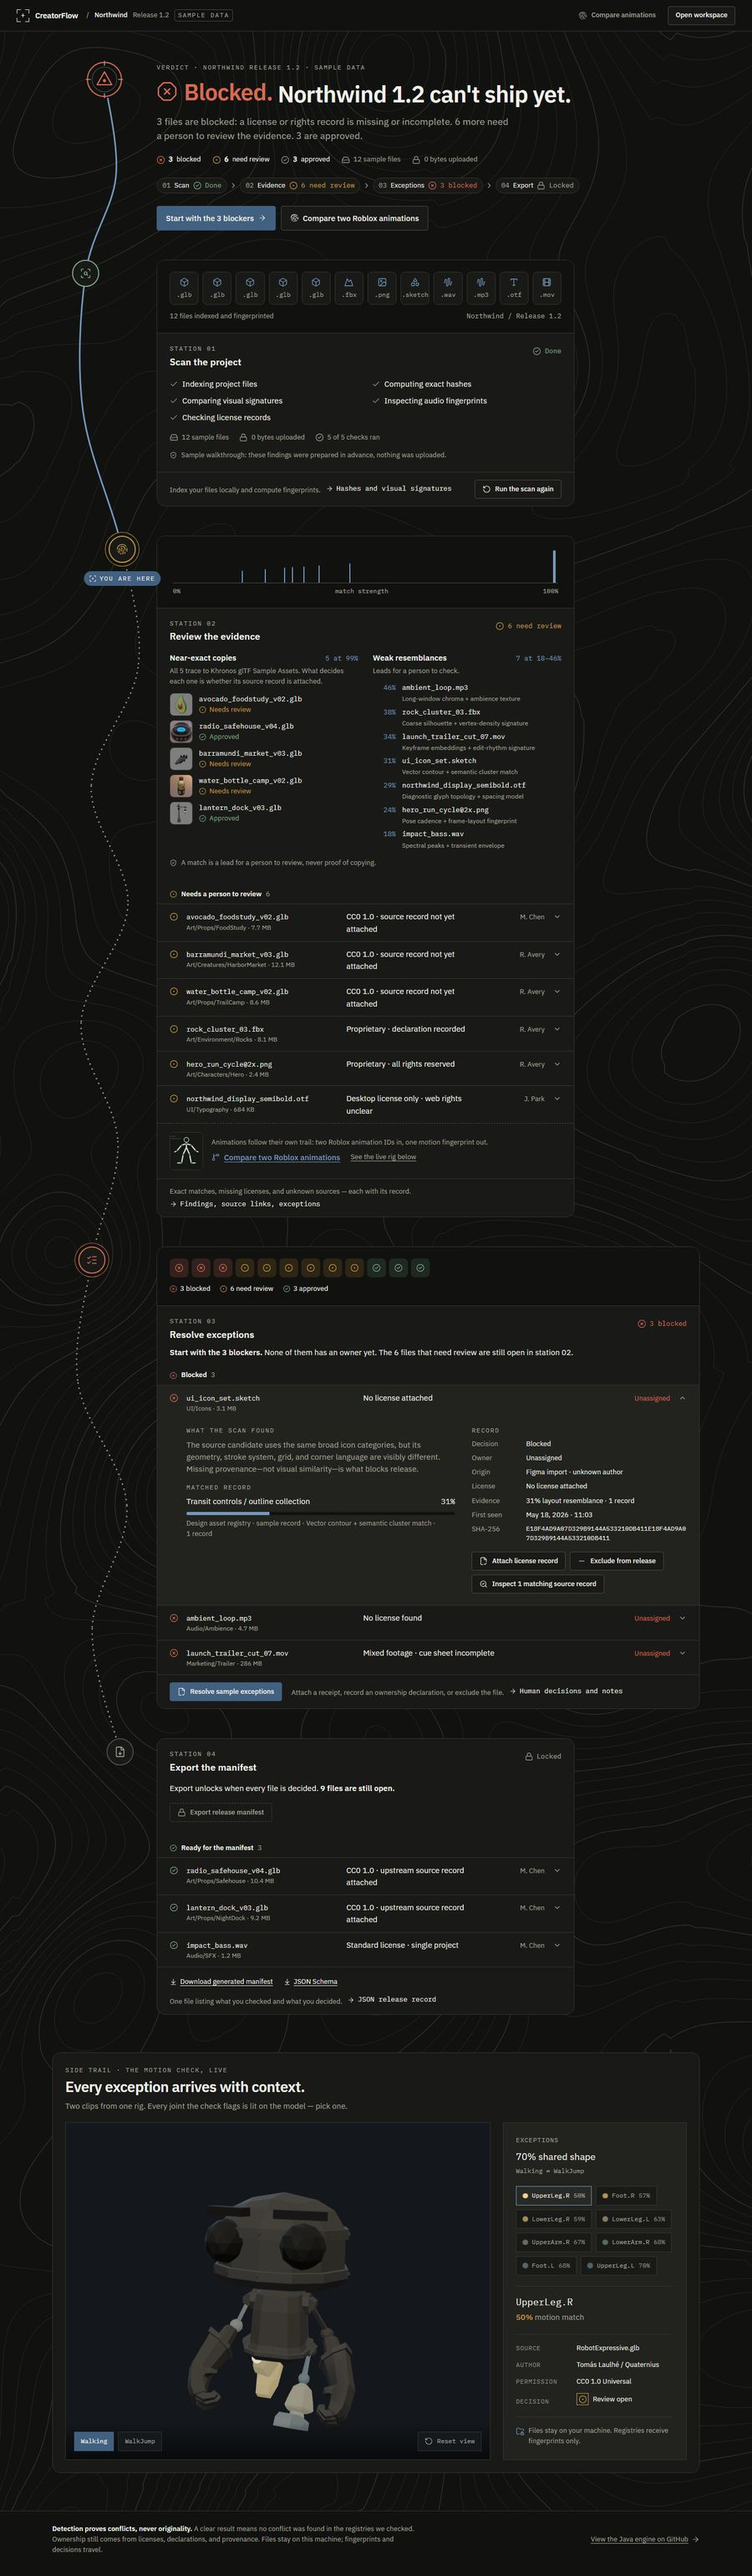
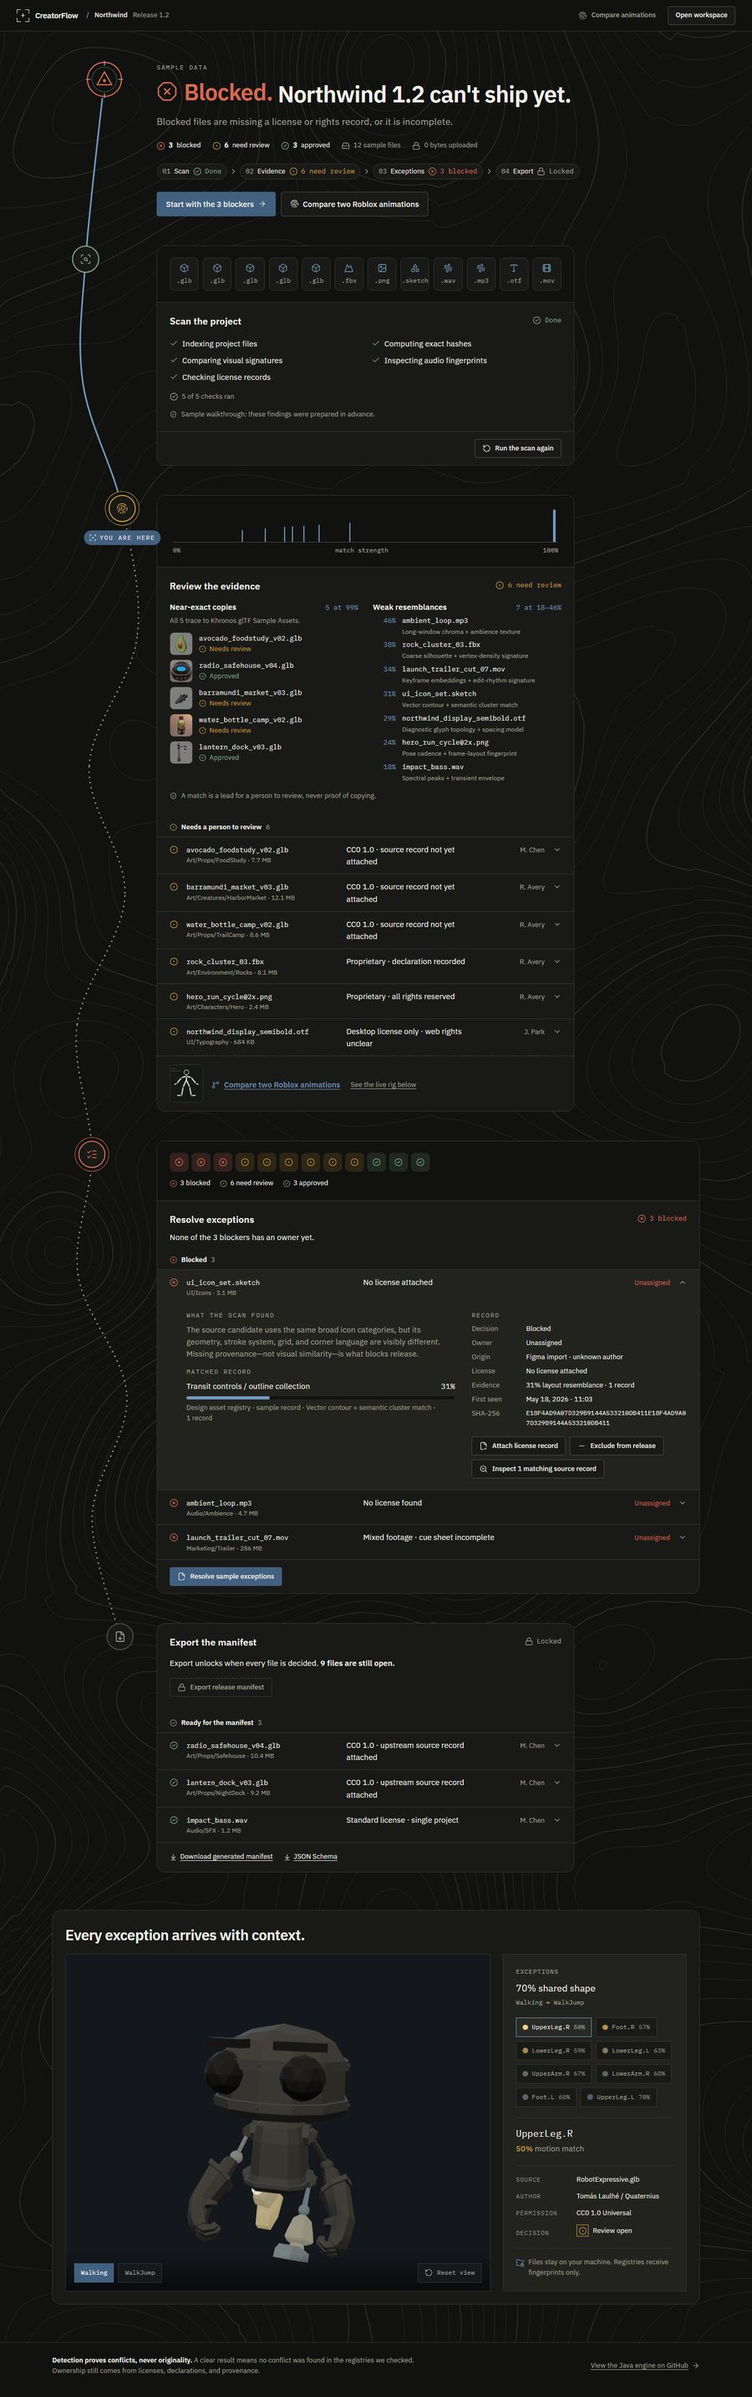
Trim subtext that restated headings or explained the obvious
On the landing page: the station kickers, the per-station workflow step lines,
the verdict's restated project line, the scan caption, the evidence and trail
taglines, the exceptions lead's restated review count, the side trail's intro,
and the second "nothing uploaded" are gone. The counts, statuses, the sample
walkthrough notice, "A match is a lead..." and the truth line each stay once.
The workspace sample loses its "Interactive sample" kicker.

The landing page's secondary text drops from 29 elements and 332 words to 16
and 156.

diff --git a/frontend/src/components/ReleaseRoute.tsx b/frontend/src/components/ReleaseRoute.tsx
@@ -201,22 +201,10 @@ function StationStatus({ station }: { station: Station }) {
   return <span className={`route-status state-${station.state}`}><Icon aria-hidden="true" />{station.word}</span>;
 }
 
-function StepFoot({ station }: { station: Station }) {
-  return (
-    <span className="route-step">
-      <span>{station.body}</span>
-      <span className="route-step-out"><ArrowRight aria-hidden="true" /> {station.output}</span>
-    </span>
-  );
-}
-
 function CardHead({ station, here }: { station: Station; here: boolean }) {
   return (
     <header className="route-card-head">
-      <div>
-        <p className="route-label">Station {station.number}</p>
-        <h2 id={`station-title-${station.id}`}>{station.title}</h2>
-      </div>
+      <h2 id={`station-title-${station.id}`}>{station.title}</h2>
       {here ? <HereTag className="route-here-head" /> : null}
       <StationStatus station={station} />
     </header>
@@ -350,27 +338,17 @@ function GroupList({ assets, group, title, actions }: { assets: readonly AssetRe
 
 // ------------------------------------------------------------------------------- the verdict
 
-function verdictCopy(counts: ReleaseCounts): { tone: ReleaseGroup; word: string; Icon: LucideIcon; headline: string; lede: string } {
+function verdictCopy(counts: ReleaseCounts): { tone: ReleaseGroup; word: string; Icon: LucideIcon; headline: string; lede: string | null } {
   const project = `${SAMPLE_RELEASE.projectName} ${SAMPLE_RELEASE.shortRelease}`;
-  const excluded = counts.excluded ? ` ${plural(counts.excluded, 'file is', 'files are')} left out of this release.` : '';
-  if (counts.ready) {
-    return {
-      tone: 'clear', word: 'Ready.', Icon: CircleCheck, headline: `${project} can ship.`,
-      lede: `Every file has a decision. ${plural(counts.clear, 'file is', 'files are')} approved.${excluded}`,
-    };
-  }
-  const review = counts.review ? ` ${counts.review} ${counts.blocked ? 'more ' : ''}${counts.review === 1 ? 'needs' : 'need'} a person to review the evidence.` : '';
-  const approved = ` ${counts.clear} ${counts.clear === 1 ? 'is' : 'are'} approved.`;
+  // The counts sit in the readout right below, so the lede says only what they cannot: why a file is blocked.
+  if (counts.ready) return { tone: 'clear', word: 'Ready.', Icon: CircleCheck, headline: `${project} can ship.`, lede: null };
   if (counts.blocked) {
     return {
       tone: 'blocked', word: 'Blocked.', Icon: OctagonX, headline: `${project} can't ship yet.`,
-      lede: `${plural(counts.blocked, 'file is', 'files are')} blocked: a license or rights record is missing or incomplete.${review}${approved}${excluded}`,
+      lede: `${counts.blocked === 1 ? 'The blocked file is' : 'Blocked files are'} missing a license or rights record, or it is incomplete.`,
     };
   }
-  return {
-    tone: 'review', word: 'Needs review.', Icon: CircleDot, headline: `${project} can't ship yet.`,
-    lede: `${review.trim()}${approved}${excluded}`,
-  };
+  return { tone: 'review', word: 'Needs review.', Icon: CircleDot, headline: `${project} can't ship yet.`, lede: null };
 }
 
 function Verdict({ counts, stations, current, onOpenMotion }: { counts: ReleaseCounts; stations: Station[]; current: number; onOpenMotion: () => void }) {
@@ -384,9 +362,9 @@ function Verdict({ counts, stations, current, onOpenMotion }: { counts: ReleaseC
     <div className="route-stop route-top">
       <div className="route-lane"><span className={`route-marker tone-${copy.tone}`} data-route-point><SurveyMarker /></span></div>
       <section className="route-verdict" aria-labelledby="verdict-title">
-        <p className="route-label">Verdict · {SAMPLE_RELEASE.projectName} release {SAMPLE_RELEASE.shortRelease} · sample data</p>
+        <p className="route-label">Sample data</p>
         <h1 id="verdict-title"><span className={`route-verdict-word tone-${copy.tone}`}><copy.Icon aria-hidden="true" />{copy.word}</span> {copy.headline}</h1>
-        <p className="route-lede">{copy.lede}</p>
+        {copy.lede ? <p className="route-lede">{copy.lede}</p> : null}
         <ul className="route-readout num">
           <li className="strong"><span className="tone-blocked"><OctagonX aria-hidden="true" /></span><b>{counts.blocked}</b> blocked</li>
           <li className="strong"><span className="tone-review"><CircleDot aria-hidden="true" /></span><b>{counts.review}</b> need review</li>
@@ -428,20 +406,14 @@ function ScanCard({ station, here, assets, onRescan }: { station: Station; here:
             return <li key={asset.id}><KindIcon aria-hidden="true" />{extensionOf(asset.name)}<span className="sr-only"> {asset.name}</span></li>;
           })}
         </ul>
-        <p className="route-art-caption"><span>{assets.length} files indexed and fingerprinted</span><span className="mono">{SAMPLE_RELEASE.projectName} / Release {SAMPLE_RELEASE.shortRelease}</span></p>
       </div>
       <CardHead station={station} here={here} />
       <div className="route-card-body">
         <ul className="route-checks">{SCAN_STEPS.map((step) => <li key={step}><Check aria-hidden="true" />{step}</li>)}</ul>
-        <p className="route-facts-line num">
-          <span><HardDrive aria-hidden="true" />{assets.length} sample files</span>
-          <span><Lock aria-hidden="true" />0 bytes uploaded</span>
-          <span><CircleCheck aria-hidden="true" />{SCAN_STEPS.length} of {SCAN_STEPS.length} checks ran</span>
-        </p>
-        <p className="route-note"><ShieldCheck aria-hidden="true" />Sample walkthrough: these findings were prepared in advance, nothing was uploaded.</p>
+        <p className="route-facts-line num"><span><CircleCheck aria-hidden="true" />{SCAN_STEPS.length} of {SCAN_STEPS.length} checks ran</span></p>
+        <p className="route-note"><ShieldCheck aria-hidden="true" />Sample walkthrough: these findings were prepared in advance.</p>
       </div>
       <footer className="route-card-foot">
-        <StepFoot station={station} />
         <button className="button button-secondary route-push" type="button" onClick={onRescan}><RotateCcw size={16} aria-hidden="true" />Run the scan again</button>
       </footer>
     </>
@@ -469,7 +441,7 @@ function EvidenceCard({ station, here, assets, actions, onOpenMotion }: { statio
           {near.length ? (
             <div>
               <h3>Near-exact copies <span className="mono num">{near.length} at {nearAt}%</span></h3>
-              <p>{near.every((asset) => asset.origin === near[0].origin) ? `All ${near.length} trace to ${near[0].origin}. ` : ''}What decides each one is whether its source record is attached.</p>
+              {near.every((asset) => asset.origin === near[0].origin) ? <p>All {near.length} trace to {near[0].origin}.</p> : null}
               <ul className="route-shots">
                 {near.map((asset) => (
                   <li key={asset.id}>
@@ -483,7 +455,6 @@ function EvidenceCard({ station, here, assets, actions, onOpenMotion }: { statio
           {weak.length ? (
             <div>
               <h3>Weak resemblances <span className="mono num">{weak.length} at {weakRange}</span></h3>
-              <p>Leads for a person to check.</p>
               <ul className="route-weak">
                 {weak.map((asset) => (
                   <li key={asset.id}>
@@ -502,14 +473,12 @@ function EvidenceCard({ station, here, assets, actions, onOpenMotion }: { statio
       <div className="route-trail">
         <img src={RIG_POSTER_URL} alt="Joint diagram of the RobotExpressive animation rig" width={64} height={73} loading="lazy" />
         <div>
-          <p>Animations follow their own trail: two Roblox animation IDs in, one motion fingerprint out.</p>
           <span className="route-trail-links">
             <button className="route-link" type="button" onClick={onOpenMotion}><GitBranch aria-hidden="true" />Compare two Roblox animations</button>
             <a className="route-link quiet" href="#product">See the live rig below</a>
           </span>
         </div>
       </div>
-      <footer className="route-card-foot"><StepFoot station={station} /></footer>
     </>
   );
 }
@@ -518,10 +487,12 @@ function ExceptionsCard({ station, here, assets, counts, actions, onResolve }: {
   const order: ReleaseGroup[] = ['blocked', 'review', 'clear', 'excluded'];
   const blockers = assetsInGroup(assets, 'blocked');
   const ownerless = blockers.filter((asset) => asset.owner === 'Unassigned').length;
-  const stillInReview = counts.review ? ` The ${plural(counts.review, 'file', 'files')} that need review ${counts.review === 1 ? 'is' : 'are'} still open in station 02.` : '';
-  const lead = blockers.length
-    ? <><b>Start with the {plural(blockers.length, 'blocker', 'blockers')}.</b> {ownerless === blockers.length ? (blockers.length === 1 ? 'It has no owner yet.' : 'None of them has an owner yet.') : ownerless ? `${ownerless} of them ${ownerless === 1 ? 'has' : 'have'} no owner yet.` : 'Each one has an owner.'}{stillInReview}</>
-    : <>No file is blocked.{stillInReview}</>;
+  // The rows show each owner; the lead only names the gap a reader would otherwise have to count.
+  const lead = !blockers.length
+    ? 'No file is blocked.'
+    : ownerless === blockers.length
+      ? (blockers.length === 1 ? 'The blocker has no owner yet.' : `None of the ${blockers.length} blockers has an owner yet.`)
+      : ownerless ? `${ownerless} of the ${blockers.length} blockers ${ownerless === 1 ? 'has' : 'have'} no owner yet.` : null;
   const tally = `${counts.total} files: ${counts.blocked} blocked, ${counts.review} need review, ${counts.clear} approved${counts.excluded ? `, ${counts.excluded} excluded` : ''}`;
   return (
     <>
@@ -541,12 +512,13 @@ function ExceptionsCard({ station, here, assets, counts, actions, onResolve }: {
         </p>
       </div>
       <CardHead station={station} here={here} />
-      <p className="route-card-lead">{lead}</p>
+      {lead ? <p className="route-card-lead">{lead}</p> : null}
       <GroupList assets={assets} group="blocked" actions={actions} />
-      <footer className="route-card-foot">
-        {counts.unresolved ? <button className="button button-primary" type="button" onClick={onResolve}><FileCheck2 size={16} aria-hidden="true" />Resolve sample exceptions</button> : null}
-        <StepFoot station={station} />
-      </footer>
+      {counts.unresolved ? (
+        <footer className="route-card-foot">
+          <button className="button button-primary" type="button" onClick={onResolve}><FileCheck2 size={16} aria-hidden="true" />Resolve sample exceptions</button>
+        </footer>
+      ) : null}
     </>
   );
 }
@@ -580,7 +552,6 @@ function ExportCard({ station, here, assets, counts, actions, onExport }: { stat
           <a href={MANIFEST_URL} download="creatorflow-real-assets-manifest.json"><ArrowDownToLine aria-hidden="true" />Download generated manifest</a>
           <a href={SCHEMA_URL} download="creatorflow-manifest-v0.1.schema.json"><ArrowDownToLine aria-hidden="true" />JSON Schema</a>
         </span>
-        <StepFoot station={station} />
       </footer>
     </>
   );
@@ -631,36 +602,35 @@ function QuietCard({ station, here, children }: { station: Station; here: boolea
   );
 }
 
-function PendingVerdict({ tone, label, headline, lede, children }: { tone: ReleaseGroup | 'neutral'; label: string; headline: ReactNode; lede: string; children?: ReactNode }) {
+function PendingVerdict({ tone, label, headline, lede, children }: { tone: ReleaseGroup | 'neutral'; label: string; headline: ReactNode; lede?: string; children?: ReactNode }) {
   return (
     <div className="route-stop route-top">
       <div className="route-lane"><span className={`route-marker tone-${tone}`} data-route-point><SurveyMarker /></span></div>
       <section className="route-verdict" aria-labelledby="verdict-title">
         <p className="route-label">{label}</p>
         <h1 id="verdict-title">{headline}</h1>
-        <p className="route-lede">{lede}</p>
+        {lede ? <p className="route-lede">{lede}</p> : null}
         {children}
       </section>
     </div>
   );
 }
 
-const VERDICT_LABEL = `Verdict · ${SAMPLE_RELEASE.projectName} release ${SAMPLE_RELEASE.shortRelease} · sample data`;
+const VERDICT_LABEL = 'Sample data';
 
 /** Before the scan: no verdict, and the route starts at station 01. */
 export function IdleView({ stations, total, onStart }: { stations: Station[]; total: number; onStart: () => void }) {
   const [scan, ...rest] = stations;
   return (
     <>
-      <PendingVerdict tone="neutral" label={VERDICT_LABEL} headline="No verdict yet." lede={`The route starts with a local scan of ${total} prepared sample files. Nothing uploads.`} />
+      <PendingVerdict tone="neutral" label={VERDICT_LABEL} headline="No verdict yet." />
       <ol className="route-stops">
         <Stop station={scan} index={0} here>
           <CardHead station={scan} here />
           <div className="route-state">
-            <p>Project selected. No preflight yet. {total} prepared sample files in {SAMPLE_RELEASE.projectName} {SAMPLE_RELEASE.shortRelease}, ready to scan.</p>
+            <p>{total} prepared sample files in {SAMPLE_RELEASE.projectName} {SAMPLE_RELEASE.shortRelease}, ready to scan. Nothing uploads.</p>
             <button className="button button-primary" type="button" onClick={onStart}><ScanSearch size={16} aria-hidden="true" />Start local scan</button>
           </div>
-          <footer className="route-card-foot"><StepFoot station={scan} /></footer>
         </Stop>
         {rest.map((station, index) => (
           <Stop key={station.id} station={station} index={index + 1} here={false}>
@@ -716,17 +686,15 @@ export function FailedView({ stations, onRetry }: { stations: Station[]; onRetry
         tone="blocked"
         label={VERDICT_LABEL}
         headline={<span className="route-verdict-word tone-blocked"><TriangleAlert aria-hidden="true" />No verdict.</span>}
-        lede="The sample check stopped before it reached a verdict. Nothing was uploaded."
       />
       <ol className="route-stops">
         <Stop station={scan} index={0} here>
           <CardHead station={scan} here />
           <div className="route-state error" role="alert">
             <h3><TriangleAlert aria-hidden="true" />The check could not finish</h3>
-            <p>Something went wrong while drawing the sample results. Running the check again starts from the prepared sample.</p>
+            <p>Something went wrong while drawing the sample results. Nothing was uploaded.</p>
             <button className="button button-primary" type="button" onClick={onRetry}><RotateCcw size={16} aria-hidden="true" />Run the check again</button>
           </div>
-          <footer className="route-card-foot"><StepFoot station={scan} /></footer>
         </Stop>
         {rest.map((station, index) => (
           <Stop key={station.id} station={station} index={index + 1} here={false}><QuietCard station={station} here={false} /></Stop>
@@ -922,7 +890,7 @@ export function ReleaseRoute({ onOpenWorkspace, initialPhase = 'complete', child
       <a className="skip-link" href="#main">Skip to main content</a>
       <header className="route-bar">
         <a href="#top" className="brand-link" aria-label="CreatorFlow home"><BrandMark /></a>
-        <span className="route-crumb"><span aria-hidden="true">/</span><b>{SAMPLE_RELEASE.projectName}</b><span>Release {SAMPLE_RELEASE.shortRelease}</span><span className="route-tag-box">Sample data</span></span>
+        <span className="route-crumb"><span aria-hidden="true">/</span><b>{SAMPLE_RELEASE.projectName}</b><span>Release {SAMPLE_RELEASE.shortRelease}</span></span>
         <div className="route-bar-actions">
           <button className="button route-ghost" type="button" aria-label="Compare two Roblox animations" onClick={() => onOpenWorkspace('motion')}><Fingerprint size={16} aria-hidden="true" /><span className="route-long">Compare animations</span></button>
           <button className="button button-secondary" type="button" onClick={() => onOpenWorkspace('overview')}>Open workspace</button>
@@ -961,7 +929,7 @@ export function ReleaseRoute({ onOpenWorkspace, initialPhase = 'complete', child
       </main>
       <footer className="route-footer">
         <div>
-          <p><b>Detection proves conflicts, never originality.</b> A clear result means no conflict was found in the registries we checked. Ownership still comes from licenses, declarations, and provenance. Files stay on this machine; fingerprints and decisions travel.</p>
+          <p><b>Detection proves conflicts, never originality.</b> A clear result means no conflict was found in the registries we checked. Ownership still comes from licenses, declarations, and provenance.</p>
           <a href="https://github.com/Bryancruzcb/creatorflow" target="_blank" rel="noreferrer">View the Java engine on GitHub <ArrowRight size={14} aria-hidden="true" /></a>
         </div>
       </footer>

diff --git a/frontend/src/components/ReleaseRoute.css b/frontend/src/components/ReleaseRoute.css
@@ -106,17 +106,6 @@
   font-weight: 500;
 }
 
-.route-tag-box {
-  padding: 1px 6px;
-  border: 1px solid var(--hairline-strong);
-  border-radius: 4px;
-  color: var(--ink-muted);
-  font-family: var(--font-mono);
-  font-size: var(--text-2xs);
-  letter-spacing: var(--track-label);
-  text-transform: uppercase;
-  white-space: nowrap;
-}
 
 .route-bar-actions {
   display: flex;
@@ -496,26 +485,8 @@
   font-size: var(--text-xs);
 }
 
-.route-step {
-  display: inline-flex;
-  flex-wrap: wrap;
-  align-items: baseline;
-  gap: 4px 10px;
-}
 
-.route-step-out {
-  display: inline-flex;
-  align-items: center;
-  gap: 6px;
-  color: var(--ink);
-  font-family: var(--font-mono);
-}
 
-.route-page .route-step-out .lucide {
-  width: 14px;
-  height: 14px;
-  align-self: center;
-}
 
 .route-card-foot .button {
   min-height: 36px;
@@ -576,15 +547,6 @@
   color: var(--blue-accent);
 }
 
-.route-art-caption {
-  display: flex;
-  flex-wrap: wrap;
-  justify-content: space-between;
-  gap: 4px 16px;
-  margin-top: 12px;
-  color: var(--ink-muted);
-  font-size: var(--text-xs);
-}
 
 .route-checks {
   display: grid;
@@ -780,10 +742,6 @@
   border-radius: 8px;
 }
 
-.route-trail p {
-  color: var(--ink-muted);
-  font-size: var(--text-xs);
-}
 
 .route-trail-links {
   display: flex;

diff --git a/frontend/src/releaseRoute.ts b/frontend/src/releaseRoute.ts
@@ -108,8 +108,6 @@ export interface Station {
   name: string;
   /** The workflow step this station is. */
   title: string;
-  body: string;
-  output: string;
   state: StationState;
   /** The state in words, always shown beside its icon. */
   word: string;
@@ -148,8 +146,6 @@ export function routeStations(phase: ScanPhase, counts: ReleaseCounts): Station[
     ...meta,
     number: `0${index + 1}`,
     title: workflowSteps[index].title,
-    body: workflowSteps[index].body,
-    output: workflowSteps[index].output,
     ...stationState(index, phase, counts),
   }));
 }

diff --git a/frontend/src/App.tsx b/frontend/src/App.tsx
@@ -50,9 +50,7 @@ function DossierSection() {
   return (
     <section className="route-side-trail" id="product" ref={ref} aria-labelledby="dossier-title">
       <div className="route-side-trail-head">
-        <p className="route-label">Side trail · the motion check, live</p>
         <h2 id="dossier-title">Every exception arrives with context.</h2>
-        <p>Two clips from one rig. Every joint the check flags is lit on the model — pick one.</p>
       </div>
 
       <Suspense fallback={<div className="evidence-rig-placeholder" aria-hidden="true" />}>

diff --git a/frontend/src/components/PreflightWorkspace.tsx b/frontend/src/components/PreflightWorkspace.tsx
@@ -150,7 +150,6 @@ export function PreflightWorkspace({ startSignal }: PreflightWorkspaceProps) {
     <section className="sample-preflight" id="sample-preflight" aria-labelledby="sample-title">
       <div className="sample-intro">
         <div>
-          <p className="section-index">Interactive sample</p>
           <h2 id="sample-title">Make the release decision.</h2>
           <p>Sample data, running in your browser. Nothing uploads.</p>
         </div>
